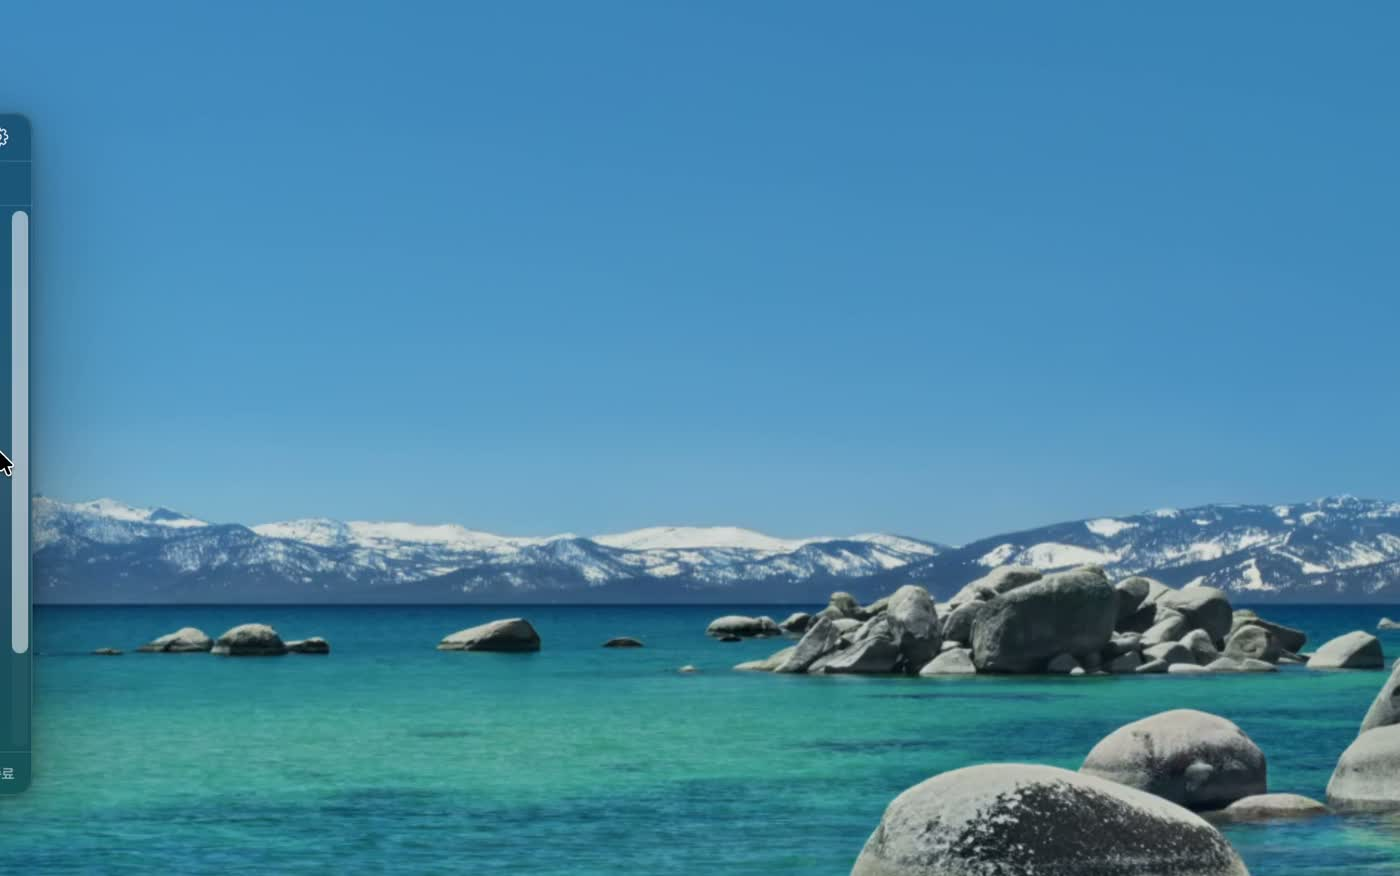
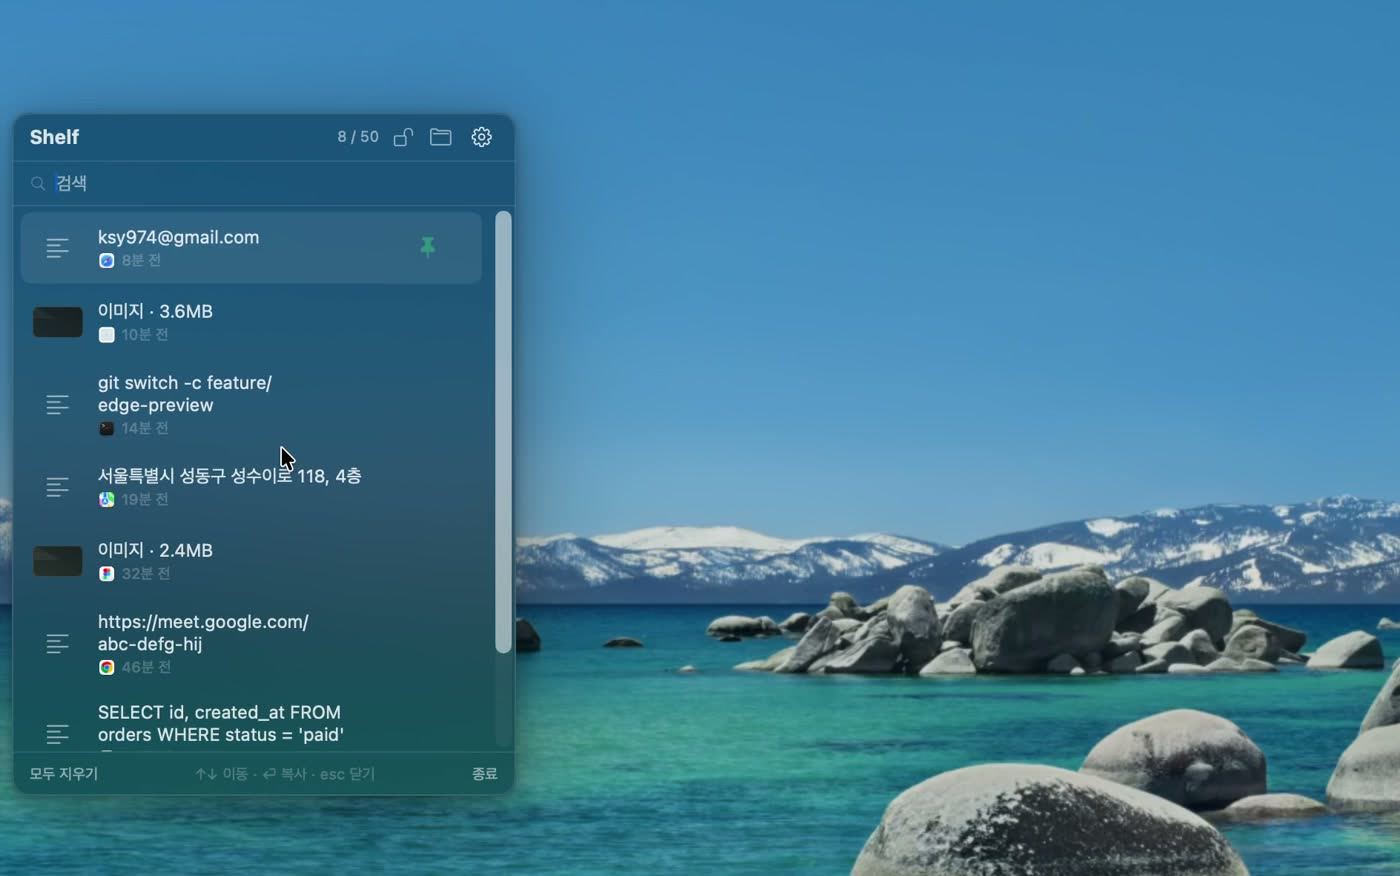
fix: 문서 뼈대를 세우고 휴대폰 레이아웃을 되살린다
이 페이지는 아티팩트용으로 쓰여서 바깥 뼈대를 시스템이 씌워 주는 것을
전제했는데, GitHub Pages 는 파일을 그대로 내보낸다. 그래서 doctype 도
charset 도 viewport 도 없는 채로 올라가 있었다.

가장 큰 피해는 viewport 다. 페이지 안에 max-width: 32rem 휴대폰 레이아웃이
들어 있지만, viewport 태그가 없으면 모바일 브라우저가 폭을 980px 로 가정하고
전체를 축소한다. 그 미디어 쿼리가 한 번도 걸리지 않았다. 설치시키는 것이
유일한 목적인 페이지인데 링크는 대개 휴대폰으로 먼저 열린다.

한국어 줄바꿈도 함께 고친다. 기본 규칙은 단어 한가운데를 끊어서 제목이
"화 / 면" 으로 갈라졌다. keep-all 은 띄어쓰기에서만 끊는다. 설치 명령은
가로로 잘려서 끝이 보이지 않았으므로 접히게 한다. 보기만 접히고 복사하면
한 줄 그대로다.

공유했을 때 보이도록 설명과 og 태그를 넣고, 카드 이미지를 영상 2 초 지점에서
뽑는다. 영상 포스터도 같은 장면으로 바꾼다. 기존 포스터는 첫 프레임이라
선반이 숨은 상태였고, 자동 재생이 막힌 사람에게는 호수 사진만 남았다.

구조화 데이터는 SoftwareApplication 하나만 넣는다. FAQPage 는 같은 문답이
화면에 보여야 한다는 조건이 있고 이 페이지에는 문답 절이 없다.

index.md 는 사람이 아니라 LLM 과 에이전트가 읽는 쌍둥이 문서다. 이름이
일반명사라 검색으로 찾히지 않는 것은 검색 쪽에서 풀 수 없지만, 이 경로는
파일 하나로 열어 둘 수 있다.

Changed region(s): [[0.0, 0.0925, 0.3993, 0.9555]]

diff --git a/index.html b/index.html
@@ -1,3 +1,69 @@
+<!doctype html>
+<html lang="ko">
+<head>
+<meta charset="utf-8">
+<meta name="viewport" content="width=device-width, initial-scale=1">
+
+<meta name="description" content="맥에서 복사한 글과 이미지, 파일이 화면 가장자리의 선반에 쌓입니다. 당기면 나오고, 누르면 다시 복사되고, 끌어내면 진짜 파일로 떨어집니다. 계정도 서버도 없는 무료 macOS 메뉴 막대 앱.">
+<link rel="canonical" href="https://seenew22.github.io/Shelf-releases/">
+<link rel="alternate" type="text/markdown" href="https://seenew22.github.io/Shelf-releases/index.md" title="Shelf for Mac (Markdown)">
+<meta name="theme-color" media="(prefers-color-scheme: light)" content="#EEF1F0">
+<meta name="theme-color" media="(prefers-color-scheme: dark)" content="#0F1415">
+
+<meta property="og:type" content="website">
+<meta property="og:site_name" content="Shelf">
+<meta property="og:locale" content="ko_KR">
+<meta property="og:url" content="https://seenew22.github.io/Shelf-releases/">
+<meta property="og:title" content="Shelf — 복사한 것이 화면 끝에 쌓입니다">
+<meta property="og:description" content="화면 가장자리를 당기면 선반이 따라 나옵니다. 맥에서 복사한 글과 이미지, 파일이 거기 있습니다.">
+<meta property="og:image" content="https://seenew22.github.io/Shelf-releases/og-image.jpg">
+<meta property="og:image:width" content="1200">
+<meta property="og:image:height" content="630">
+<meta property="og:image:alt" content="맥 화면 왼쪽 끝에서 나온 Shelf 패널. 복사한 메일 주소, 이미지, 명령어, 주소가 목록으로 쌓여 있습니다.">
+<meta name="twitter:card" content="summary_large_image">
+<meta name="twitter:title" content="Shelf — 복사한 것이 화면 끝에 쌓입니다">
+<meta name="twitter:description" content="화면 가장자리를 당기면 선반이 따라 나옵니다. 맥에서 복사한 글과 이미지, 파일이 거기 있습니다.">
+<meta name="twitter:image" content="https://seenew22.github.io/Shelf-releases/og-image.jpg">
+
+<script type="application/ld+json">
+{
+  "@context": "https://schema.org",
+  "@type": "SoftwareApplication",
+  "name": "Shelf",
+  "alternateName": "Shelf for Mac",
+  "url": "https://seenew22.github.io/Shelf-releases/",
+  "description": "맥에서 복사한 글과 이미지, 파일을 화면 가장자리의 선반에 쌓아 두고 다시 꺼내 쓰는 메뉴 막대 앱입니다. 계정도 서버도 동기화도 없이 이 맥 안에서만 동작합니다.",
+  "applicationCategory": "UtilitiesApplication",
+  "applicationSubCategory": "클립보드 기록 관리 (clipboard history manager)",
+  "operatingSystem": "macOS 14.0 이상 (Apple Silicon, Intel)",
+  "inLanguage": ["ko", "en"],
+  "isAccessibleForFree": true,
+  "offers": { "@type": "Offer", "price": "0", "priceCurrency": "KRW" },
+  "downloadUrl": "https://github.com/seenew22/Shelf-releases/releases/latest",
+  "installUrl": "https://seenew22.github.io/Shelf-releases/",
+  "image": "https://seenew22.github.io/Shelf-releases/og-image.jpg",
+  "screenshot": "https://seenew22.github.io/Shelf-releases/og-image.jpg",
+  "featureList": [
+    "복사한 글, 이미지, 파일을 50개까지 기록",
+    "화면 왼쪽이나 오른쪽 가장자리를 당겨서 열기",
+    "⌘⇧V 전역 단축키로도 열기",
+    "누르면 다시 복사, 끌어내면 진짜 파일로 떨어짐",
+    "목록 그림에 마우스를 올리면 크게 보기 (PDF 첫 쪽, 동영상 한 장면)",
+    "압정으로 고정한 항목은 50개 제한에서 밀려나지 않음",
+    "비밀번호 관리자가 표시한 민감한 복사는 기록하지 않음",
+    "아이폰에서 복사한 것도 유니버설 클립보드를 통해 함께 쌓임",
+    "한국어와 English"
+  ],
+  "author": {
+    "@type": "Person",
+    "name": "김신유",
+    "alternateName": "Kim Sinyu",
+    "email": "ksy974@gmail.com"
+  },
+  "softwareHelp": { "@type": "CreativeWork", "url": "https://seenew22.github.io/Shelf-releases/" }
+}
+</script>
+
 <title>Shelf for Mac</title>
 <link rel="preconnect" href="https://fonts.googleapis.com">
 <link rel="preconnect" href="https://fonts.gstatic.com" crossorigin>
@@ -51,6 +117,8 @@
 
   body {
     margin: 0;
+    word-break: keep-all;
+    overflow-wrap: break-word;
     background: var(--paper);
     color: var(--ink);
     font-family: var(--sans);
@@ -168,7 +236,7 @@
     font-family: var(--mono); font-size: .78rem;
     background: var(--desk); color: #CFE0DC;
     border-radius: 6px; padding: .75rem .85rem;
-    overflow-x: auto; white-space: pre; margin: 0 0 .85rem;
+    white-space: pre-wrap; word-break: break-all; margin: 0 0 .85rem;
   }
 
   ol { margin: .4rem 0 0; padding-left: 1.15rem; color: var(--soft); font-size: .9375rem; }
@@ -184,6 +252,8 @@
   footer a { color: var(--soft); }
   a:focus-visible { outline: 2px solid var(--teal); outline-offset: 3px; border-radius: 3px; }
 </style>
+</head>
+<body>
 
 <div class="page">
 
@@ -279,3 +349,18 @@
   </footer>
 
 </div>
+
+<script>
+  // 움직임을 줄여 달라고 설정해 둔 사람에게는 영상을 돌리지 않습니다.
+  // 멈춘 자리에는 포스터가 남고, 보고 싶으면 직접 재생할 수 있게 조작부를 답니다.
+  if (window.matchMedia && matchMedia('(prefers-reduced-motion: reduce)').matches) {
+    document.querySelectorAll('video').forEach(function (v) {
+      v.removeAttribute('autoplay');
+      v.removeAttribute('loop');
+      v.controls = true;
+      v.pause();
+    });
+  }
+</script>
+</body>
+</html>

diff --git a/index.md b/index.md
@@ -1,0 +1,100 @@
+# Shelf
+
+> Shelf는 맥에서 복사한 글과 이미지, 파일을 화면 가장자리의 선반에 쌓아 두고 다시 꺼내 쓰는
+> macOS 메뉴 막대 앱입니다. 계정도 서버도 동기화도 없이 이 맥 안에서만 동작합니다. 무료입니다.
+> (A free macOS menu bar clipboard history manager. Local only, no account, no server.)
+
+## 한눈에
+
+- **무엇인가:** 복사한 내역을 50개까지 쌓아 두고, 화면 가장자리를 당기면 나오는 선반에서 다시 꺼내 쓰는 앱입니다.
+- **누구에게:** 같은 것을 여러 번 복사해 옮기는 사람, 복사해 둔 것을 잠시 뒤에 다시 찾는 사람.
+- **받는 법:** 터미널에 `curl -fsSL https://raw.githubusercontent.com/seenew22/Shelf-releases/main/install.sh | bash`
+- **필요:** macOS 14 (Sonoma) 이상. 애플 실리콘과 인텔 맥 모두 동작합니다.
+- **값:** 무료입니다.
+- **언어:** 한국어, English.
+- **만든 사람:** 김신유 (ksy974@gmail.com)
+
+## 어떻게 쓰는가
+
+1. 화면 왼쪽이나 오른쪽 끝을 눌러서 안쪽으로 당기면 선반이 따라 나옵니다. `⌘⇧V` 로도 열립니다.
+2. 목록에서 **누르면** 그 내용이 다시 클립보드에 올라갑니다.
+3. 목록에서 **끌어내면** 진짜 파일로 떨어집니다. 붙여넣기가 아니라 파일이므로 메일 첨부와 Finder로 그대로 갑니다.
+4. 목록 왼쪽 그림에 마우스를 올리면 옆에 크게 뜹니다. PDF는 첫 쪽, 동영상은 한 장면이 보입니다.
+
+가장자리는 스쳐서 열리지 않습니다. 가장자리에서 **시작한** 누름만 받기 때문에, 지나가는 것만으로는 열리지 않습니다.
+
+## 무엇이 다른가
+
+- **가장자리에서 당겨 냅니다.** 단축키를 외우거나 메뉴 막대까지 올라가지 않아도 됩니다. 단축키도 그대로 있습니다.
+- **진짜 파일로 떨어집니다.** 끌어낸 이미지는 실제 PNG 파일이고, 끌어낸 파일은 원래 파일입니다.
+- **맥 밖으로 나가지 않습니다.** 계정이 없고 서버가 없고 통신을 하지 않습니다. 기록은 `~/Library/Application Support/Shelf` 에만 있습니다.
+- **아이폰에서 복사한 것도 쌓입니다.** 애플의 유니버설 클립보드가 맥까지 보내 주고, 이 앱은 맥의 클립보드를 봅니다. 따로 설정할 것이 없습니다.
+
+## 받기
+
+**터미널 (권장).** 붙여 넣으면 받아서 설치까지 합니다.
+
+```sh
+curl -fsSL https://raw.githubusercontent.com/seenew22/Shelf-releases/main/install.sh | bash
+```
+
+같은 명령을 다시 실행하면 최신 버전으로 갱신됩니다. 이 경로로 받으면 macOS의 허용 단계가 나오지 않습니다.
+`curl` 로 받은 파일에는 격리 표식(`com.apple.quarantine`)이 붙지 않고, 게이트키퍼는 그 표식이 붙은 파일만 검사하기 때문입니다.
+
+**디스크 이미지.** [최신 릴리스](https://github.com/seenew22/Shelf-releases/releases/latest)에서 `.dmg` 를 받아
+**응용 프로그램** 폴더로 끌어 넣습니다. 브라우저로 받은 파일에는 격리 표식이 붙으므로 처음 한 번은 허용이 필요합니다.
+`시스템 설정 → 개인정보 보호 및 보안` 으로 가서 아래로 내리면 **"Shelf"이(가) 차단되었습니다** 가 있고,
+**그래도 열기** 를 누르고 암호를 넣으면 됩니다. 다음부터는 그냥 열립니다.
+
+## 자주 묻는 것
+
+### 정말 무료인가요?
+
+무료입니다. 기능 제한판이나 유료 전환이 없습니다.
+
+### 복사한 내용이 어디론가 전송되나요?
+
+아니요. 이 앱은 네트워크 통신을 하지 않습니다. 계정도 서버도 클라우드 동기화도 없습니다.
+기록은 `~/Library/Application Support/Shelf` 안에만 있고, 그 폴더를 지우면 기록도 사라집니다.
+단 하나의 예외는 설정 메뉴에서 **업데이트 확인**을 직접 눌렀을 때이고, 그때만 GitHub의 릴리스 목록을 한 번 읽습니다.
+스스로 주기적으로 확인하지 않습니다.
+
+### 비밀번호를 복사하면 그것도 남나요?
+
+남지 않습니다. 비밀번호 관리자와 민감한 도구들은 복사할 때 클립보드에 `org.nspasteboard.ConcealedType`
+같은 표시를 함께 붙입니다. 그 표시가 있으면 읽지 않고 건너뛰며, 목록에 남기지 않습니다.
+
+### 왜 설치할 때 경고가 안 뜨나요?
+
+macOS의 게이트키퍼는 `com.apple.quarantine` 이라는 격리 표식이 붙은 파일만 검사합니다.
+이 표식은 브라우저, AirDrop, 메시지, 메일이 내려받은 파일에 붙여 주는 것이고 `curl` 은 붙이지 않습니다.
+구멍이 아니라 원래 그렇게 설계된 것입니다. 다만 이 경로에는 **진위 확인이 없습니다.**
+설치 스크립트가 실행하는 `codesign --verify` 는 파일이 손상되지 않았는지만 확인하고,
+그것이 정말 원저작자가 만든 것인지는 확인하지 않습니다.
+
+### 기록은 몇 개까지 쌓이나요?
+
+50개입니다. 51번째를 복사하면 가장 오래된 것이 밀려납니다.
+압정으로 고정한 항목은 이 숫자에 포함되지 않고 밀려나지도 않습니다.
+
+### 업데이트는 어떻게 하나요?
+
+설치할 때 쓴 `curl` 명령을 다시 실행하거나, 앱의 설정 메뉴에서 업데이트를 누르면 됩니다.
+기록은 앱 묶음 바깥에 있으므로 업데이트해도 사라지지 않습니다.
+
+## In English
+
+Shelf is a free macOS menu bar app that keeps a history of what you copy: text, images and files.
+Pull from the left or right screen edge and the shelf slides out; press `⌘⇧V` for the same thing.
+Click an item to copy it back, or drag it out and it lands as a real file, not a paste.
+It keeps the last 50 items, skips anything a password manager marks as sensitive, and stores
+everything in `~/Library/Application Support/Shelf`. No account, no server, no sync, no network calls.
+Requires macOS 14 or later, runs on Apple Silicon and Intel.
+Install with `curl -fsSL https://raw.githubusercontent.com/seenew22/Shelf-releases/main/install.sh | bash`.
+
+## 링크
+
+- 홈페이지: https://seenew22.github.io/Shelf-releases/
+- 릴리스: https://github.com/seenew22/Shelf-releases/releases/latest
+- 설치 스크립트: https://raw.githubusercontent.com/seenew22/Shelf-releases/main/install.sh
+- 만든 사람: 김신유 (ksy974@gmail.com)
